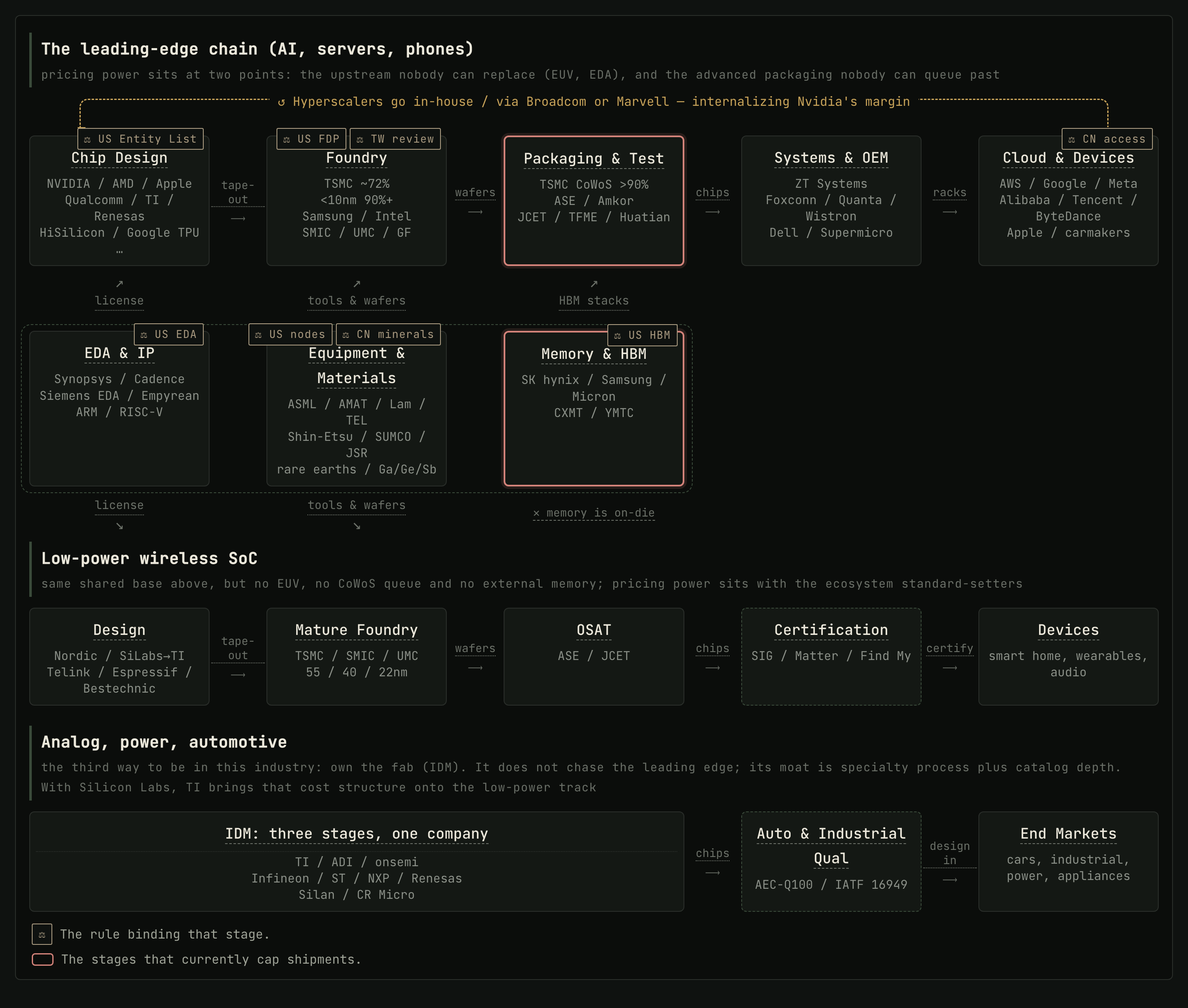
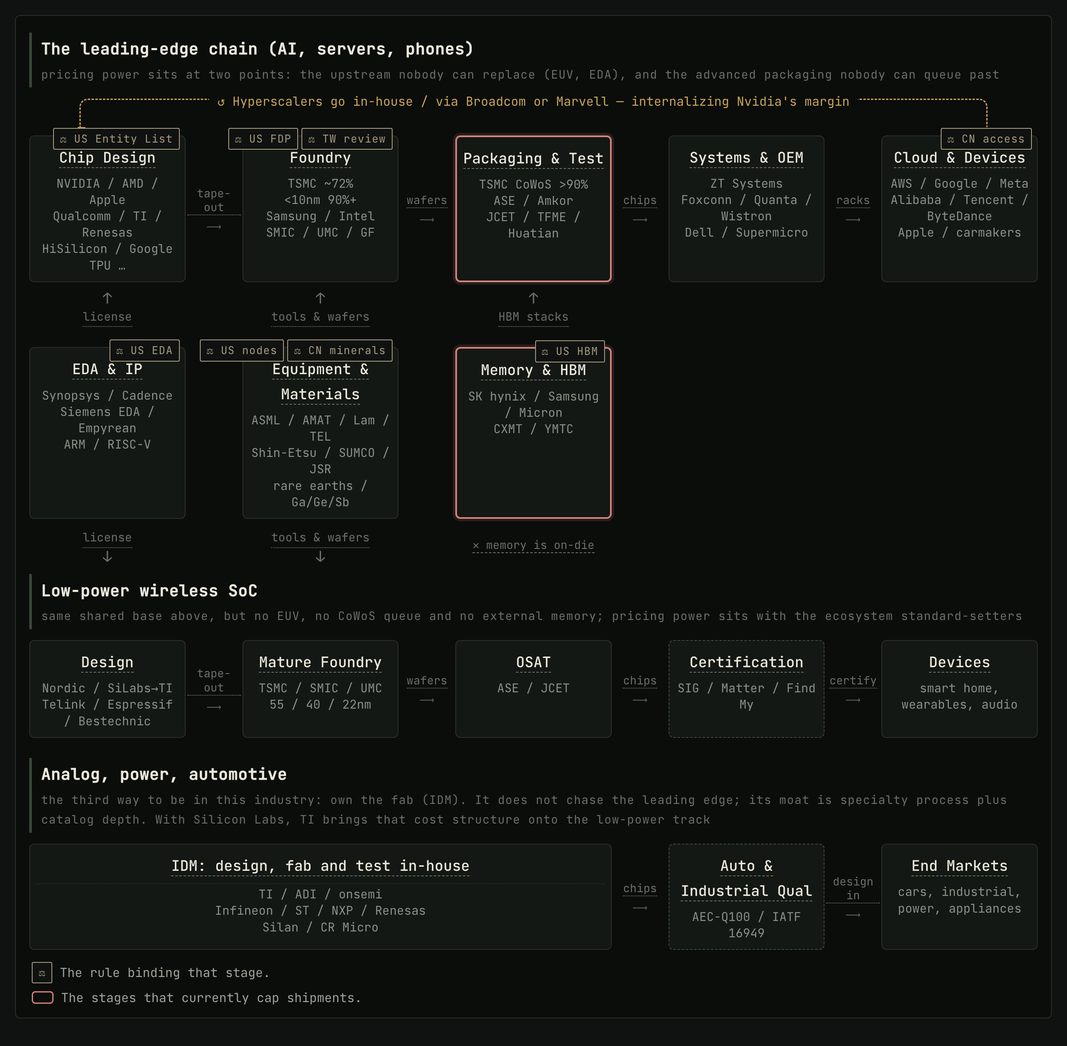
semis: enclosure out, arrows vertical, figure back in line with the page
The dashed enclosure did not read as a layer either, so both attempts at
marking the upstream band come out — the offset and the box. The band
sits in line with the rows it feeds and the connectors are vertical
again; the ↗↘ were drawn for an offset that no longer exists.

Both titles on the IDM box were odd in their own language. 「三个环节，
一家公司」was the English aphorism carried across word for word, where
Chinese wants a noun phrase like every other box on the map:「IDM：设计、
制造、封测一体」. And "three stages, one company" reads as a slogan next
to "Chip Design" and "Foundry", so it becomes "IDM: design, fab and test
in-house".

Width: the figure had been breaking out to 1320 while the prose column
was 1140, which is why it looked wider than everything around it. One
width now — the article goes to 1240 and the figure fills it — with a
820px reading measure kept on the paragraphs, since a figure needs the
room and a sentence does not.

diff --git a/quartz/static/semis/value-chain-map.html b/quartz/static/semis/value-chain-map.html
@@ -182,7 +182,7 @@ p>.tg-tip:first-child:focus-within .tg-tip-box{transform:translate(0,0)}
 
 /* ── larger type ── */
 body{font-size:18px;line-height:1.7}
-article{max-width:1140px}
+article{max-width:1240px}
 h1.article-title{font-size:30px}
 .meta{font-size:15px}
 .tg-bi-hint{font-size:15px}
@@ -248,8 +248,6 @@ h1.article-title{font-size:30px}
 .fig{margin:0 0 2.4rem;padding:1.1rem 1rem .7rem;position:relative;border:1px solid var(--color-border);
   border-radius:6px;background:var(--color-surface-dark);overflow-x:auto}
 @media(min-width:1180px){
-  .fig{width:min(1320px, calc(100vw - 48px));
-    margin-left:calc((100% - min(1320px, 100vw - 48px)) / 2)}
 .fig{overflow:visible}}
 .fgrid{display:grid;min-width:1060px;
   grid-template-columns:1fr 68px 1fr 68px 1fr 68px 1fr 68px 1fr;
@@ -374,10 +372,9 @@ h1.article-title{font-size:30px}
    its cells deliberately fail to line up with the rows above and below */
 
 
-/* the chain is a row of separate cards; the upstream band is one enclosure
-   holding three, which is what makes it a layer rather than three more steps */
-.bandbg{border:1px dashed var(--color-border-hover);border-radius:12px;
-  margin:-8px -10px;pointer-events:none}
+/* one page width for everything, but prose keeps a reading measure — the
+   figure needs the room, a paragraph does not */
+.st-kicker,.st-rules,.choke,.stage>p{max-width:820px}
 </style></head><body><article>
 <h1 class="article-title">半导体产业链全图 — Semiconductor Value Chain: The Full Map</h1>
 <p class="meta">2026-08-21 / silviazeng.github.io</p>
@@ -388,7 +385,7 @@ h1.article-title{font-size:30px}
 <div aria-label="language" class="tg-bi-switch" role="group"><label for="tg-lang-zh">中文</label><label for="tg-lang-en">EN</label></div></div>
 </div>
 <div class="filterbar"><span class="ctrl-lab"><span class="tg-lang zh">地区筛选</span><span class="tg-lang en">Region filter</span></span><div class="legend"><label class="b-all" for="r-all"><span class="tg-lang zh">全部</span><span class="tg-lang en">All</span></label><label class="b-us" for="r-us"><span class="tg-lang zh">美国</span><span class="tg-lang en">US</span></label><label class="b-tw" for="r-tw"><span class="tg-lang zh">台湾</span><span class="tg-lang en">Taiwan</span></label><label class="b-cn" for="r-cn"><span class="tg-lang zh">中国大陆</span><span class="tg-lang en">China</span></label><label class="b-kr" for="r-kr"><span class="tg-lang zh">韩国</span><span class="tg-lang en">Korea</span></label><label class="b-jp" for="r-jp"><span class="tg-lang zh">日本</span><span class="tg-lang en">Japan</span></label><label class="b-eu" for="r-eu"><span class="tg-lang zh">欧洲</span><span class="tg-lang en">Europe</span></label></div></div>
-<figure class="fig"><div class="fgrid"><div class="bandbg" style="grid-row:5;grid-column:1/6"></div><div class="fbrk" style="grid-row:2;grid-column:1/-1"><span class="tg-tip " tabindex="0"><span class="tg-lang zh">↺ 云厂商自研 / 委托 Broadcom 或 Marvell —— 把英伟达的毛利内化</span><span class="tg-lang en">↺ Hyperscalers go in-house / via Broadcom or Marvell — internalizing Nvidia's margin</span><span class="tg-tip-box"><span class="tg-lang zh"><b>云厂商正在把利润最厚的一层收归自身</b>。超大规模厂商自己设计 AI 芯片（Google TPU、AWS Trainium、Microsoft Maia、Meta MTIA），或与博通、Marvell 协同设计——这两家合计约占定制 ASIC 市场 95%。第一动机是把英伟达 70%+ 的毛利内化。</span><span class="tg-lang en"><b>The clouds are taking the most profitable layer back in-house.</b> Hyperscalers design their own AI chips (TPU, Trainium, Maia, MTIA) or co-design with Broadcom and Marvell, who together hold about 95% of the custom-ASIC market. The first motive is to internalise Nvidia's 70%-plus gross margin.</span></span></span></div>
+<figure class="fig"><div class="fgrid"><div class="fbrk" style="grid-row:2;grid-column:1/-1"><span class="tg-tip " tabindex="0"><span class="tg-lang zh">↺ 云厂商自研 / 委托 Broadcom 或 Marvell —— 把英伟达的毛利内化</span><span class="tg-lang en">↺ Hyperscalers go in-house / via Broadcom or Marvell — internalizing Nvidia's margin</span><span class="tg-tip-box"><span class="tg-lang zh"><b>云厂商正在把利润最厚的一层收归自身</b>。超大规模厂商自己设计 AI 芯片（Google TPU、AWS Trainium、Microsoft Maia、Meta MTIA），或与博通、Marvell 协同设计——这两家合计约占定制 ASIC 市场 95%。第一动机是把英伟达 70%+ 的毛利内化。</span><span class="tg-lang en"><b>The clouds are taking the most profitable layer back in-house.</b> Hyperscalers design their own AI chips (TPU, Trainium, Maia, MTIA) or co-design with Broadcom and Marvell, who together hold about 95% of the custom-ASIC market. The first motive is to internalise Nvidia's 70%-plus gross margin.</span></span></span></div>
 <div class="flane" style="grid-row:1;grid-column:1/-1"><span class="tg-lang zh"><span class="ln">先进制程链（AI、服务器、手机）</span>定价权在两处：无可替代的上游（EUV、EDA），和排不上队的先进封装</span><span class="tg-lang en"><span class="ln">The leading-edge chain (AI, servers, phones)</span>pricing power sits at two points: the upstream nobody can replace (EUV, EDA), and the advanced packaging nobody can queue past</span></div>
 <div class="fbox" style="grid-row:3;grid-column:1"><span class="ftag"><span class="fpill tg-tip" tabindex="0">⚖ <span class="tg-lang zh">美国实体清单</span><span class="tg-lang en">US Entity List</span><span class="tg-tip-box"><span class="tg-lang zh">同属一套<b>美国出口管制体系（EAR，商务部 BIS 执行）</b>——五件工具各咬一层，这件管的是「能不能卖给这家公司」。<br><br><b>实体清单点名。</b>华为 2019 年入列、中芯 2020 年、算能 2024 年，2024 年 12 月一次加了 140 多家。向名单上的实体出口受管制物项需要许可证，而许可政策通常是「推定拒绝」。</span><span class="tg-lang en">One instrument of the <b>same US export-control system (the EAR, run by BIS)</b> — five tools each bite one layer, and this one governs whether anyone may sell to this company.<br><br><b>Named on the Entity List.</b> Huawei in 2019, SMIC in 2020, Sophgo in 2024, and over 140 entities added at once in December 2024. Exports of controlled items to a listed party need a licence, normally under a policy of presumptive denial.</span></span></span></span><span class="ft"><span class="tg-tip tipL " tabindex="0"><span class="tg-lang zh">芯片设计</span><span class="tg-lang en">Chip Design</span><span class="tg-tip-box"><span class="tg-lang zh"><b>芯片设计（fabless）</b>。只做设计不建厂，产出是版图（GDSII 数据），交给代工厂印到硅上。英特尔、三星、TI 这类设计制造都自己做的叫 IDM。这一层价值最集中、玩家最多。</span><span class="tg-lang en"><b>Chip design (fabless)</b> — design only, no fab. The output is a layout (GDSII) handed to a foundry to print on silicon. Firms that do both, like Intel, Samsung and TI, are IDMs.</span></span></span></span><span class="fp"><span class="fpl"><span class="sr sr-us">NVIDIA</span> / <span class="sr sr-us">AMD</span> / <span class="sr sr-us">Apple</span></span><span class="fpl"><span class="sr sr-us"><span class="tg-lang zh">高通</span><span class="tg-lang en">Qualcomm</span></span> / <span class="sr sr-us">TI</span> / <span class="sr sr-jp"><span class="tg-lang zh">瑞萨</span><span class="tg-lang en">Renesas</span></span></span><span class="fpl"><span class="sr sr-cn"><span class="tg-lang zh">海思</span><span class="tg-lang en">HiSilicon</span></span> / <span class="sr sr-us">Google TPU …</span></span></span></div>
 <div class="fcon" style="grid-row:3;grid-column:2"><span class="tg-tip " tabindex="0"><span class="tg-lang zh">版图</span><span class="tg-lang en">tape-out</span><span class="tg-tip-box"><span class="tg-lang zh"><b>版图（GDSII）→ tape-out</b>。设计数据定稿、签核、交给代工厂的那个时间点。注意它是事件不是过程。一颗普通 7nm SoC 的首次 tape-out 通常就要 5,000 万美元。</span><span class="tg-lang en"><b>Layout (GDSII) → tape-out</b> — the moment design data is finalized, signed off and handed to the foundry. An event, not a process. A first tape-out of an ordinary 7nm SoC typically runs $50m.</span></span></span><span class="ar">⟶</span></div>
@@ -399,14 +396,14 @@ h1.article-title{font-size:30px}
 <div class="fbox" style="grid-row:3;grid-column:7"><span class="ft"><span class="tg-tip " tabindex="0"><span class="tg-lang zh">系统与整机</span><span class="tg-lang en">Systems & OEM</span><span class="tg-tip-box"><span class="tg-lang zh"><b>系统与整机</b>。把芯片装成服务器和整机架。AI 时代「能交付一整套能跑的系统」本身就是定价权——AMD 花 49 亿美元买 ZT Systems，买的就是这件事。</span><span class="tg-lang en"><b>Systems & racks.</b> In the AI era, the ability to deliver a complete working system is itself pricing power — that is what AMD's $4.9bn for ZT Systems bought.</span></span></span></span><span class="fp"><span class="fpl"><span class="sr sr-us">ZT Systems</span></span><span class="fpl"><span class="sr sr-tw"><span class="tg-lang zh">鸿海</span><span class="tg-lang en">Foxconn</span></span> / <span class="sr sr-tw"><span class="tg-lang zh">广达</span><span class="tg-lang en">Quanta</span></span> / <span class="sr sr-tw"><span class="tg-lang zh">纬创</span><span class="tg-lang en">Wistron</span></span></span><span class="fpl"><span class="sr sr-us">Dell</span> / <span class="sr sr-us">Supermicro</span></span></span></div>
 <div class="fcon" style="grid-row:3;grid-column:8"><span class="tg-tip " tabindex="0"><span class="tg-lang zh">整机架</span><span class="tg-lang en">racks</span><span class="tg-tip-box"><span class="tg-lang zh">AI 的交付单位已经从「一张卡」变成「一个整机架」——定价权也跟着从单颗芯片挪到了整机交付能力。</span><span class="tg-lang en">The AI unit of delivery has shifted from a card to a full rack, and pricing power moved with it, from the chip to the ability to deliver the whole system.</span></span></span><span class="ar">⟶</span></div>
 <div class="fbox" style="grid-row:3;grid-column:9"><span class="ftag"><span class="fpill tg-tip" tabindex="0">⚖ <span class="tg-lang zh">中国准入</span><span class="tg-lang en">CN access</span><span class="tg-tip-box"><span class="tg-lang zh"><b>中国的杠杆是「让不让本国公司买」。</b>2025 年 9 月网信办禁止主要科技公司采购英伟达 AI 芯片；2026 年 8 月字节和腾讯各获约 1 万颗 H200，约为获批量的 13%，其余需发改委逐案批准，且北京在把部署往香港引导。</span><span class="tg-lang en"><b>China's lever is whether its own firms may buy.</b> In September 2025 the CAC barred major tech firms from Nvidia AI chips; in August 2026 ByteDance and Tencent each received ~10,000 H200s, about 13% of the authorised volume, with the rest pending case-by-case NDRC approval.</span></span></span></span><span class="ft"><span class="tg-tip tipR " tabindex="0"><span class="tg-lang zh">云与终端</span><span class="tg-lang en">Cloud & Devices</span><span class="tg-tip-box"><span class="tg-lang zh"><b>云与终端</b>。最终买单的人。本轮增长由少数超大规模厂商的资本开支驱动，而不是手机/PC 的单位出货——周期风险的性质因此完全变了。</span><span class="tg-lang en"><b>Cloud & end buyers.</b> This cycle is driven by a few hyperscalers' capex, not phone/PC units — which changes the very nature of cyclical risk.</span></span></span></span><span class="fp"><span class="fpl"><span class="sr sr-us">AWS</span> / <span class="sr sr-us">Google</span> / <span class="sr sr-us">Meta</span></span><span class="fpl"><span class="sr sr-cn"><span class="tg-lang zh">阿里</span><span class="tg-lang en">Alibaba</span></span> / <span class="sr sr-cn"><span class="tg-lang zh">腾讯</span><span class="tg-lang en">Tencent</span></span> / <span class="sr sr-cn"><span class="tg-lang zh">字节</span><span class="tg-lang en">ByteDance</span></span></span><span class="fpl"><span class="sr sr-us">Apple</span> / <span class="sr sr-gl"><span class="tg-lang zh">车厂</span><span class="tg-lang en">carmakers</span></span></span></span></div>
-<div class="fvert up midv" style="grid-row:4;grid-column:1"><span class="ar">↗</span><span class="tg-tip " tabindex="0"><span class="tg-lang zh">授权</span><span class="tg-lang en">license</span><span class="tg-tip-box"><span class="tg-lang zh">EDA 工具按席位收费；IP 按「授权费 + 每颗版税」收。ARM 的商业模式就在这一条箭头上。</span><span class="tg-lang en">EDA tools are sold per seat; IP as licence fee plus per-chip royalty. ARM's entire business model lives on this one arrow.</span></span></span></div>
-<div class="fvert up midv" style="grid-row:4;grid-column:3"><span class="ar">↗</span><span class="tg-tip " tabindex="0"><span class="tg-lang zh">设备与硅片</span><span class="tg-lang en">tools & wafers</span><span class="tg-tip-box"><span class="tg-lang zh">光刻机、刻蚀机、硅片、光刻胶从这里进厂。断供这一条竖线，工厂两年后便无法建造下一代。</span><span class="tg-lang en">Scanners, etchers, wafers and resists enter the fab here. Cut this vertical and in two years the fab cannot build the next node.</span></span></span></div>
-<div class="fvert up midv" style="grid-row:4;grid-column:5"><span class="ar">↗</span><span class="tg-tip " tabindex="0"><span class="tg-lang zh">HBM 堆栈</span><span class="tg-lang en">HBM stacks</span><span class="tg-tip-box"><span class="tg-lang zh">HBM 是在<b>封装环节</b>才和逻辑裸片合体的——这正是 CoWoS 成为整条链瓶颈的原因。</span><span class="tg-lang en">HBM only meets the logic die <b>at packaging</b> — which is exactly why CoWoS is the chain's bottleneck.</span></span></span></div>
+<div class="fvert up midv" style="grid-row:4;grid-column:1"><span class="ar">↑</span><span class="tg-tip " tabindex="0"><span class="tg-lang zh">授权</span><span class="tg-lang en">license</span><span class="tg-tip-box"><span class="tg-lang zh">EDA 工具按席位收费；IP 按「授权费 + 每颗版税」收。ARM 的商业模式就在这一条箭头上。</span><span class="tg-lang en">EDA tools are sold per seat; IP as licence fee plus per-chip royalty. ARM's entire business model lives on this one arrow.</span></span></span></div>
+<div class="fvert up midv" style="grid-row:4;grid-column:3"><span class="ar">↑</span><span class="tg-tip " tabindex="0"><span class="tg-lang zh">设备与硅片</span><span class="tg-lang en">tools & wafers</span><span class="tg-tip-box"><span class="tg-lang zh">光刻机、刻蚀机、硅片、光刻胶从这里进厂。断供这一条竖线，工厂两年后便无法建造下一代。</span><span class="tg-lang en">Scanners, etchers, wafers and resists enter the fab here. Cut this vertical and in two years the fab cannot build the next node.</span></span></span></div>
+<div class="fvert up midv" style="grid-row:4;grid-column:5"><span class="ar">↑</span><span class="tg-tip " tabindex="0"><span class="tg-lang zh">HBM 堆栈</span><span class="tg-lang en">HBM stacks</span><span class="tg-tip-box"><span class="tg-lang zh">HBM 是在<b>封装环节</b>才和逻辑裸片合体的——这正是 CoWoS 成为整条链瓶颈的原因。</span><span class="tg-lang en">HBM only meets the logic die <b>at packaging</b> — which is exactly why CoWoS is the chain's bottleneck.</span></span></span></div>
 <div class="fbox mid" style="grid-row:5;grid-column:1"><span class="ftag"><span class="fpill tg-tip" tabindex="0">⚖ <span class="tg-lang zh">美国 EDA</span><span class="tg-lang en">US EDA</span><span class="tg-tip-box"><span class="tg-lang zh">同属一套<b>美国出口管制体系（EAR，商务部 BIS 执行）</b>——五件工具各咬一层，这件管的是「软件能不能给你用」。<br><br><b>EAR 对 EDA 工具与 IP 的管制。</b>断供这一层不需要碰任何硬件，因此是 2022 年管制里最先被动用的杠杆。三家 EDA 寡头里两家在美国，第三家（Siemens EDA）技术根也在美国，同样受约束。</span><span class="tg-lang en">One instrument of the <b>same US export-control system (the EAR, run by BIS)</b> — five tools each bite one layer, and this one governs whether you may use the software.<br><br><b>EAR controls on EDA tools and IP.</b> Cutting this layer off touches no hardware, which is why it was the first lever pulled in 2022. Two of the three EDA houses are American; the third (Siemens EDA) has American technology roots and is bound the same way.</span></span></span></span><span class="ft"><span class="tg-tip tipL " tabindex="0"><span class="tg-lang zh">EDA 与 IP</span><span class="tg-lang en">EDA & IP</span><span class="tg-tip-box"><span class="tg-lang zh">整个栈的最底层：三家 EDA 寡头（Synopsys、Cadence、Siemens EDA）+ IP 授权（ARM 只授权不卖芯片）。断供这一层不需要碰任何硬件——2022 年管制里最先被用到的杠杆。</span><span class="tg-lang en">The base of the stack: three EDA oligopolists plus IP licensing (ARM sells no chips). Cutting this layer off touches no hardware — the first lever pulled in the 2022 controls.</span></span></span></span><span class="fp"><span class="fpl"><span class="sr sr-us">Synopsys</span> / <span class="sr sr-us">Cadence</span></span><span class="fpl"><span class="sr sr-eu">Siemens EDA</span> / <span class="sr sr-cn"><span class="tg-lang zh">华大九天</span><span class="tg-lang en">Empyrean</span></span></span><span class="fpl"><span class="sr sr-eu">ARM</span> / <span class="sr sr-eu">RISC-V</span></span></span></div>
 <div class="fbox mid" style="grid-row:5;grid-column:3"><span class="ftag"><span class="fpill tg-tip" tabindex="0">⚖ <span class="tg-lang zh">美国门槛</span><span class="tg-lang en">US nodes</span><span class="tg-tip-box"><span class="tg-lang zh">同属一套<b>美国出口管制体系（EAR，商务部 BIS 执行）</b>——五件工具各咬一层，这件管的是「设备能不能进厂」。<br><br><b>2022 年 10 月 7 日的制程门槛 + 2024 年 12 月的设备 FDP 规则。</b>向中国境内工厂出口设备，只要该厂生产 16/14nm 以下逻辑、18nm 半节距以下 DRAM 或 128 层以上 NAND，就需要许可证——<b>不看所有权</b>。2024 年 12 月起，连非美国造的设备只要用了美国技术也一并覆盖。</span><span class="tg-lang en">One instrument of the <b>same US export-control system (the EAR, run by BIS)</b> — five tools each bite one layer, and this one governs whether tools may enter the fab.<br><br><b>The node thresholds of 7 October 2022, plus the equipment FDP rule of December 2024.</b> Shipping tools to any China-located fab producing logic below 16/14nm, DRAM below 18nm half-pitch or NAND at 128+ layers requires a licence — <b>regardless of who owns the fab</b>. Since December 2024 even non-US tools built with US technology are covered.</span></span></span><span class="fpill tg-tip" tabindex="0">⚖ <span class="tg-lang zh">中国原料</span><span class="tg-lang en">CN minerals</span><span class="tg-tip-box"><span class="tg-lang zh"><b>商务部 2025 年 10 月 9 日第 61/62 号公告。</b>只要一件外国制造的产品里含有价值占比 0.1% 以上的中国原产稀土，出口就需要中国的许可证——<b>这是中国版的 FDP 规则</b>，同样的域外管辖逻辑，方向相反。另有镓、锗、锑：2024 年 12 月 3 日曾宣布对美「原则上不予许可」，2025 年 11 月改回许可制。釜山会晤后，域外条款暂停至 2026 年 11 月 10 日，镓锗锑暂停至 11 月 27 日。</span><span class="tg-lang en"><b>MOFCOM Notices 61/62 of 9 October 2025.</b> Any foreign-made good containing 0.1% or more Chinese-origin rare earths needs a Chinese export licence — structurally the mirror of the US FDP rule. Suspended after Busan until 10 November 2026; the gallium/germanium/antimony suspension runs to 27 November.</span></span></span></span><span class="ft"><span class="tg-tip " tabindex="0"><span class="tg-lang zh">设备与材料</span><span class="tg-lang en">Equipment & Materials</span><span class="tg-tip-box"><span class="tg-lang zh"><b>设备与材料</b>。造芯片用的机器和原料，集中度比下游任何一层都高：EUV 只有 ASML 一家，其光源来自美国 Cymer、镜头来自德国蔡司。稀土和镓锗锑的精炼环节 80% 以上在中国。</span><span class="tg-lang en"><b>Equipment & materials</b> — more concentrated than anything downstream: one EUV maker (ASML), whose source is American (Cymer) and optics German (Zeiss). China refines 80%+ of rare earths and Ga/Ge/Sb.</span></span></span></span><span class="fp"><span class="fpl"><span class="sr sr-eu">ASML</span> / <span class="sr sr-us">AMAT</span> / <span class="sr sr-us">Lam</span> / <span class="sr sr-jp">TEL</span></span><span class="fpl"><span class="sr sr-jp"><span class="tg-lang zh">信越</span><span class="tg-lang en">Shin-Etsu</span></span> / <span class="sr sr-jp">SUMCO</span> / <span class="sr sr-jp">JSR</span></span><span class="fpl"><span class="sr sr-cn"><span class="tg-lang zh">稀土及镓锗锑</span><span class="tg-lang en">rare earths / Ga/Ge/Sb</span></span></span></span></div>
 <div class="fbox hot mid" style="grid-row:5;grid-column:5"><span class="ftag"><span class="fpill tg-tip" tabindex="0">⚖ <span class="tg-lang zh">美国 HBM</span><span class="tg-lang en">US HBM</span><span class="tg-tip-box"><span class="tg-lang zh">同属一套<b>美国出口管制体系（EAR，商务部 BIS 执行）</b>——五件工具各咬一层，这件管的是「这类物项本身」。<br><br><b>2024 年 12 月起 HBM 被纳入管制（ECCN 3A090.c）。</b>这是目前限制华为昇腾出货量的真正瓶颈——约束在 HBM，不在逻辑晶圆。注意这一格里三家的机制各不相同：美光本身是美国公司；长江存储 2022 年 12 月被列入实体清单；<b>长鑫至今未被列名，它受约束靠的是上面那条不看所有权的制程门槛</b>。</span><span class="tg-lang en">One instrument of the <b>same US export-control system (the EAR, run by BIS)</b> — five tools each bite one layer, and this one governs the item class itself.<br><br><b>HBM came under control in December 2024 (ECCN 3A090.c).</b> This, not logic wafers, is the binding constraint on Huawei's Ascend shipments. Note the three makers here are caught by different mechanisms: Micron is simply American; YMTC was Entity-Listed in December 2022; <b>CXMT has never been named — it is bound by the ownership-blind node thresholds above</b>.</span></span></span></span><span class="ft"><span class="tg-tip " tabindex="0"><span class="tg-lang zh">存储与 HBM</span><span class="tg-lang en">Memory & HBM</span><span class="tg-tip-box"><span class="tg-lang zh"><b>HBM（High Bandwidth Memory，高带宽内存）</b>。垂直堆叠的 DRAM，紧贴处理器裸片放置。AI 加速器的主要规格竞赛点，全球只有 SK 海力士、三星、美光三家能量产。2024 年 12 月起被列入美国出口管制，<b>这是目前限制华为昇腾出货量的真正瓶颈——不是逻辑晶圆</b>。</span><span class="tg-lang en"><b>HBM (High Bandwidth Memory)</b> — vertically stacked DRAM placed against the processor die. Only SK hynix, Samsung and Micron produce it at volume. Export-controlled by the US since December 2024, and <b>the actual binding constraint on Huawei's Ascend shipments — not logic wafers</b>.</span></span></span></span><span class="fp"><span class="fpl"><span class="sr sr-kr"><span class="tg-lang zh">SK 海力士</span><span class="tg-lang en">SK hynix</span></span> / <span class="sr sr-kr"><span class="tg-lang zh">三星</span><span class="tg-lang en">Samsung</span></span> / <span class="sr sr-us"><span class="tg-lang zh">美光</span><span class="tg-lang en">Micron</span></span></span><span class="fpl"><span class="sr sr-cn"><span class="tg-lang zh">长鑫</span><span class="tg-lang en">CXMT</span></span> / <span class="sr sr-cn"><span class="tg-lang zh">长江存储</span><span class="tg-lang en">YMTC</span></span></span></span></div>
-<div class="fvert midv" style="grid-row:6;grid-column:1"><span class="tg-tip " tabindex="0"><span class="tg-lang zh">授权</span><span class="tg-lang en">license</span><span class="tg-tip-box"><span class="tg-lang zh">低功耗 SoC 一样要买 EDA 和 CPU 内核 IP——泰凌微用 RISC-V，Nordic 用 ARM Cortex-M。<b>成熟节点的设计工具仍可正常采购，但一旦被列入实体清单，EDA 是整层切断的。</b>这是这条线上最真实的一处管制暴露。</span><span class="tg-lang en">Low-power SoCs buy EDA and CPU IP just the same — Telink on RISC-V, Nordic on ARM Cortex-M. <b>Mature-node tools remain purchasable, but an Entity List designation cuts the whole layer at once.</b> This is the one real control exposure on this track.</span></span></span><span class="ar">↘</span></div>
-<div class="fvert midv" style="grid-row:6;grid-column:3"><span class="tg-tip " tabindex="0"><span class="tg-lang zh">设备与硅片</span><span class="tg-lang en">tools & wafers</span><span class="tg-tip-box"><span class="tg-lang zh">同一批设备与材料也供成熟产线——只是用 DUV 而非 EUV。<b>被管制的是先进节点的门槛，不是机台本身</b>，所以 55/40nm 这条线基本不受影响；中国的原料管制则对两条线一视同仁。</span><span class="tg-lang en">The same tools and materials feed mature lines too — on DUV rather than EUV. <b>What is controlled is the node threshold, not the tool</b>, so the 55/40nm track is largely untouched; China's materials controls, by contrast, bind both equally.</span></span></span><span class="ar">↘</span></div>
+<div class="fvert midv" style="grid-row:6;grid-column:1"><span class="tg-tip " tabindex="0"><span class="tg-lang zh">授权</span><span class="tg-lang en">license</span><span class="tg-tip-box"><span class="tg-lang zh">低功耗 SoC 一样要买 EDA 和 CPU 内核 IP——泰凌微用 RISC-V，Nordic 用 ARM Cortex-M。<b>成熟节点的设计工具仍可正常采购，但一旦被列入实体清单，EDA 是整层切断的。</b>这是这条线上最真实的一处管制暴露。</span><span class="tg-lang en">Low-power SoCs buy EDA and CPU IP just the same — Telink on RISC-V, Nordic on ARM Cortex-M. <b>Mature-node tools remain purchasable, but an Entity List designation cuts the whole layer at once.</b> This is the one real control exposure on this track.</span></span></span><span class="ar">↓</span></div>
+<div class="fvert midv" style="grid-row:6;grid-column:3"><span class="tg-tip " tabindex="0"><span class="tg-lang zh">设备与硅片</span><span class="tg-lang en">tools & wafers</span><span class="tg-tip-box"><span class="tg-lang zh">同一批设备与材料也供成熟产线——只是用 DUV 而非 EUV。<b>被管制的是先进节点的门槛，不是机台本身</b>，所以 55/40nm 这条线基本不受影响；中国的原料管制则对两条线一视同仁。</span><span class="tg-lang en">The same tools and materials feed mature lines too — on DUV rather than EUV. <b>What is controlled is the node threshold, not the tool</b>, so the 55/40nm track is largely untouched; China's materials controls, by contrast, bind both equally.</span></span></span><span class="ar">↓</span></div>
 <div class="fnote midv" style="grid-row:6;grid-column:5"><span class="tg-tip " tabindex="0"><span class="tg-lang zh">✕ 存储做在片内</span><span class="tg-lang en">✕ memory is on-die</span><span class="tg-tip-box"><span class="tg-lang zh"><b></b>嵌入式 flash 加 SRAM，与逻辑电路在同一片硅、同一道工艺里完成。这正是华虹「嵌入式非易失存储」特色工艺的价值所在，也是这条线停在 55/40nm 的一个理由：eFlash 在更小的节点上无法实现。少数型号外挂 NOR flash 或 PSRAM，但那是主板上的另一颗器件，不构成产业链上的一层。HBM 则完全无关。</span><span class="tg-lang en">Embedded flash plus SRAM, built on the same silicon in the same process. That is what makes HuaHong's embedded non-volatile memory option valuable, and one reason the track sits at 55/40nm: eFlash stops working much below that. A few parts add external NOR flash or PSRAM, but that is another component on the board, not a layer of the chain. HBM is irrelevant here.</span></span></span></div>
 <div class="flane" style="grid-row:7;grid-column:1/-1"><span class="tg-lang zh"><span class="ln">低功耗无线 SoC</span>共用上面这层底座，但不碰 EUV、不排 CoWoS 的队、不需要外部存储；定价权在生态标准方</span><span class="tg-lang en"><span class="ln">Low-power wireless SoC</span>same shared base above, but no EUV, no CoWoS queue and no external memory; pricing power sits with the ecosystem standard-setters</span></div>
 <div class="fbox" style="grid-row:8;grid-column:1"><span class="ft"><span class="tg-tip tipL " tabindex="0"><span class="tg-lang zh">设计</span><span class="tg-lang en">Design</span><span class="tg-tip-box"><span class="tg-lang zh"><b>低功耗无线 SoC 设计</b>。竞争维度是功耗、协议覆盖、认证、SDK 易用性和成本——不是算力。单价几毛到几美元，年出货以亿颗计。</span><span class="tg-lang en"><b>Low-power wireless SoC design.</b> The axes are power, protocol coverage, certification, SDK usability and cost — not compute. Cents to dollars per chip, hundreds of millions of units a year.</span></span></span></span><span class="fp"><span class="fpl"><span class="sr sr-eu">Nordic</span> / <span class="sr sr-us">SiLabs→TI</span></span><span class="fpl"><span class="sr sr-cn"><span class="tg-lang zh">泰凌微</span><span class="tg-lang en">Telink</span></span> / <span class="sr sr-cn"><span class="tg-lang zh">乐鑫</span><span class="tg-lang en">Espressif</span></span> / <span class="sr sr-cn"><span class="tg-lang zh">恒玄</span><span class="tg-lang en">Bestechnic</span></span></span></span></div>
@@ -418,7 +415,7 @@ h1.article-title{font-size:30px}
 <div class="fbox dashed" style="grid-row:8;grid-column:7"><span class="ft"><span class="tg-tip " tabindex="0"><span class="tg-lang zh">认证与生态</span><span class="tg-lang en">Certification</span><span class="tg-tip-box"><span class="tg-lang zh"><b>认证与生态</b>。芯片厂控制不了的一道门：Bluetooth SIG、Matter、Find My、各国无线电核准决定「什么算能用的设备」。<b>这道门是这条赛道定价权不在芯片厂手上的原因。</b></span><span class="tg-lang en"><b>Certification & ecosystems</b> — a gate the chip vendor does not control: Bluetooth SIG, Matter, Find My and radio approvals decide what counts as a working device. <b>This gate is why pricing power on this branch does not sit with chip makers.</b></span></span></span></span><span class="fp"><span class="fpl"><span class="sr sr-gl">SIG / Matter / Find My</span></span></span></div>
 <div class="fcon" style="grid-row:8;grid-column:8"><span class="tg-tip " tabindex="0"><span class="tg-lang zh">进生态</span><span class="tg-lang en">certify</span><span class="tg-tip-box"><span class="tg-lang zh">过了认证才能进 Apple / Google / Amazon 的生态。进不去，芯片再好也卖不动。</span><span class="tg-lang en">Certification is the ticket into the Apple / Google / Amazon ecosystems. Without it, a better chip still does not sell.</span></span></span><span class="ar">⟶</span></div>
 <div class="fbox" style="grid-row:8;grid-column:9"><span class="ft"><span class="tg-tip tipR " tabindex="0"><span class="tg-lang zh">终端</span><span class="tg-lang en">Devices</span><span class="tg-tip-box"><span class="tg-lang zh"><b>终端</b>。智能家居、穿戴、音频。一颗芯片几毛到几美元，一辆车、一间屋子里有几十上百颗。</span><span class="tg-lang en"><b>End devices</b> — smart home, wearables, audio. Cents to dollars per chip; dozens to hundreds per car or household.</span></span></span></span><span class="fp"><span class="tg-lang zh">智能家居、穿戴、音频</span><span class="tg-lang en">smart home, wearables, audio</span></span></div><div class="flane" style="grid-row:9;grid-column:1/-1;margin-top:14px"><span class="tg-lang zh"><span class="ln">模拟、功率、车规</span>第三种路径：自建产线（IDM）。不追先进节点，护城河是特色工艺加料号厚度；TI 收购 Silicon Labs 之后，这条线的成本结构被带进了低功耗赛道</span><span class="tg-lang en"><span class="ln">Analog, power, automotive</span>the third way to be in this industry: own the fab (IDM). It does not chase the leading edge; its moat is specialty process plus catalog depth. With Silicon Labs, TI brings that cost structure onto the low-power track</span></div>
-<div class="fbox" style="grid-row:10;grid-column:1/6"><span class="ft"><span class="tg-tip tipL " tabindex="0"><span class="tg-lang zh">IDM：三个环节，一家公司</span><span class="tg-lang en">IDM: three stages, one company</span><span class="tg-tip-box"><span class="tg-lang zh"><b>IDM：设计、制造、封测同属一家公司。</b>上面两条线是接力——设计一家、制造一家、封测一家；这一条将三者并入同一家公司。<b>值得如此的理由：</b>模拟、功率、车规产品的性能取决于工艺（BCD、SiC/GaN、嵌入式非易失存储），将制造外包即让渡核心；产能自主调度；旧产线折旧摊销完毕后成本极低。<b>代价：</b>一座产线数十至上百亿美元，产能空转即为亏损，工艺落后则产品随之落后。<b>与低功耗赛道的关联：</b>TI 有约 8 万个料号、10 万家客户，2026 年 2 月以约 75 亿美元收购 Silicon Labs——它为低功耗赛道带来的不是新技术，而是自有 300mm 产线折旧完毕后的成本结构。</span><span class="tg-lang en"><b>IDM: design, fab and test inside one company.</b> The two bands above are a relay — one firm designs, another fabricates, a third packages. This band swallows all three, which is why it is drawn as a single box spanning three slots. <b>Why it pays:</b> in analog, power and automotive parts the performance lives in the process (BCD, SiC/GaN, embedded non-volatile memory), so outsourcing manufacturing means handing over the core; you allocate your own capacity; and a depreciated line costs almost nothing to run. <b>What it costs:</b> tens of billions per fab, idle capacity is a straight loss, and a process that falls behind drags the products with it. <b>Why it matters here:</b> TI carries ~80,000 catalog parts and ~100,000 customers, and agreed in February 2026 to buy Silicon Labs for ~$7.5bn — what it brings onto the low-power track is not new technology but the cost structure of its own written-down 300mm lines.</span></span></span></span><span class="fp"><span class="fsub"></span><span class="fpl"><span class="sr sr-us">TI</span> / <span class="sr sr-us">ADI</span> / <span class="sr sr-us"><span class="tg-lang zh">安森美</span><span class="tg-lang en">onsemi</span></span></span><span class="fpl"><span class="sr sr-eu"><span class="tg-lang zh">英飞凌</span><span class="tg-lang en">Infineon</span></span> / <span class="sr sr-eu"><span class="tg-lang zh">意法</span><span class="tg-lang en">ST</span></span> / <span class="sr sr-eu"><span class="tg-lang zh">恩智浦</span><span class="tg-lang en">NXP</span></span> / <span class="sr sr-jp"><span class="tg-lang zh">瑞萨</span><span class="tg-lang en">Renesas</span></span></span><span class="fpl"><span class="sr sr-cn"><span class="tg-lang zh">士兰微</span><span class="tg-lang en">Silan</span></span> / <span class="sr sr-cn"><span class="tg-lang zh">华润微</span><span class="tg-lang en">CR Micro</span></span></span></span></div>
+<div class="fbox" style="grid-row:10;grid-column:1/6"><span class="ft"><span class="tg-tip tipL " tabindex="0"><span class="tg-lang zh">IDM：设计、制造、封测一体</span><span class="tg-lang en">IDM: design, fab and test in-house</span><span class="tg-tip-box"><span class="tg-lang zh"><b>IDM：设计、制造、封测同属一家公司。</b>上面两条线是接力——设计一家、制造一家、封测一家；这一条将三者并入同一家公司。<b>值得如此的理由：</b>模拟、功率、车规产品的性能取决于工艺（BCD、SiC/GaN、嵌入式非易失存储），将制造外包即让渡核心；产能自主调度；旧产线折旧摊销完毕后成本极低。<b>代价：</b>一座产线数十至上百亿美元，产能空转即为亏损，工艺落后则产品随之落后。<b>与低功耗赛道的关联：</b>TI 有约 8 万个料号、10 万家客户，2026 年 2 月以约 75 亿美元收购 Silicon Labs——它为低功耗赛道带来的不是新技术，而是自有 300mm 产线折旧完毕后的成本结构。</span><span class="tg-lang en"><b>IDM: design, fab and test inside one company.</b> The two bands above are a relay — one firm designs, another fabricates, a third packages. This band swallows all three, which is why it is drawn as a single box spanning three slots. <b>Why it pays:</b> in analog, power and automotive parts the performance lives in the process (BCD, SiC/GaN, embedded non-volatile memory), so outsourcing manufacturing means handing over the core; you allocate your own capacity; and a depreciated line costs almost nothing to run. <b>What it costs:</b> tens of billions per fab, idle capacity is a straight loss, and a process that falls behind drags the products with it. <b>Why it matters here:</b> TI carries ~80,000 catalog parts and ~100,000 customers, and agreed in February 2026 to buy Silicon Labs for ~$7.5bn — what it brings onto the low-power track is not new technology but the cost structure of its own written-down 300mm lines.</span></span></span></span><span class="fp"><span class="fsub"></span><span class="fpl"><span class="sr sr-us">TI</span> / <span class="sr sr-us">ADI</span> / <span class="sr sr-us"><span class="tg-lang zh">安森美</span><span class="tg-lang en">onsemi</span></span></span><span class="fpl"><span class="sr sr-eu"><span class="tg-lang zh">英飞凌</span><span class="tg-lang en">Infineon</span></span> / <span class="sr sr-eu"><span class="tg-lang zh">意法</span><span class="tg-lang en">ST</span></span> / <span class="sr sr-eu"><span class="tg-lang zh">恩智浦</span><span class="tg-lang en">NXP</span></span> / <span class="sr sr-jp"><span class="tg-lang zh">瑞萨</span><span class="tg-lang en">Renesas</span></span></span><span class="fpl"><span class="sr sr-cn"><span class="tg-lang zh">士兰微</span><span class="tg-lang en">Silan</span></span> / <span class="sr sr-cn"><span class="tg-lang zh">华润微</span><span class="tg-lang en">CR Micro</span></span></span></span></div>
 <div class="fcon" style="grid-row:10;grid-column:6"><span class="tg-tip  " tabindex="0"><span class="tg-lang zh">芯片</span><span class="tg-lang en">chips</span><span class="tg-tip-box"><span class="tg-lang zh">出自自有产线的成品——中间没有第三方代工厂，也没有 OSAT。</span><span class="tg-lang en">Parts out of the company's own fabs — no third-party foundry, no OSAT in between.</span></span></span><span class="ar">⟶</span></div>
 <div class="fbox dashed" style="grid-row:10;grid-column:7"><span class="ft"><span class="tg-tip  " tabindex="0"><span class="tg-lang zh">车规与工业认证</span><span class="tg-lang en">Auto &amp; Industrial Qual</span><span class="tg-tip-box"><span class="tg-lang zh"><b>另一道芯片厂控制不了的门</b>。AEC-Q100 器件认证、IATF 16949 体系、PPAP 与零缺陷要求，外加 10–15 年供货承诺。它和低功耗那条线的 Matter、Find My 是同一类东西：认证资产不产生技术优势，但需以时间与资金累积，且换供应商的成本高到客户几乎不换——这正是这条线毛利稳定、格局多年不变的原因。</span><span class="tg-lang en"><b>Another gate the chip maker does not control.</b> AEC-Q100 part qualification, IATF 16949 systems, PPAP and zero-defect expectations, plus 10–15 year supply commitments. It is the same species of asset as Matter and Find My on the low-power band: certification confers no technical edge, costs years and money to accumulate, and raises switching costs so far that customers rarely move — which is why margins here are steady and the pecking order barely changes.</span></span></span></span><span class="fp"><span class="fpl">AEC-Q100 / IATF 16949</span></span></div>
 <div class="fcon" style="grid-row:10;grid-column:8"><span class="tg-tip  " tabindex="0"><span class="tg-lang zh">上车</span><span class="tg-lang en">design in</span><span class="tg-tip-box"><span class="tg-lang zh">过了认证才进整车与工业设备的物料清单（BOM）。一旦进入即持续十年，这是这条线最有价值的资产。</span><span class="tg-lang en">Only a qualified part enters a vehicle or industrial BOM — and once in, it stays for a decade. That is the most valuable thing on this band.</span></span></span><span class="ar">⟶</span></div>
